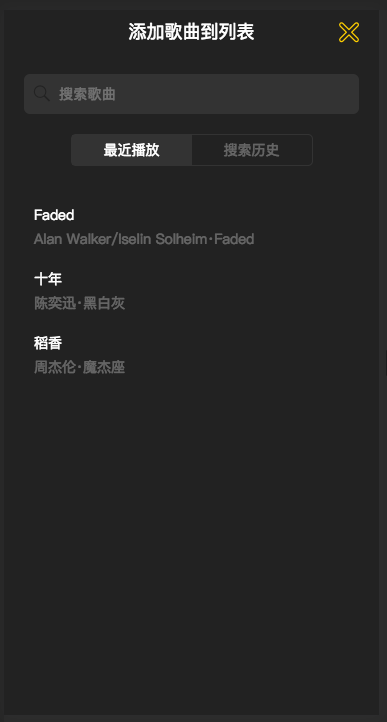
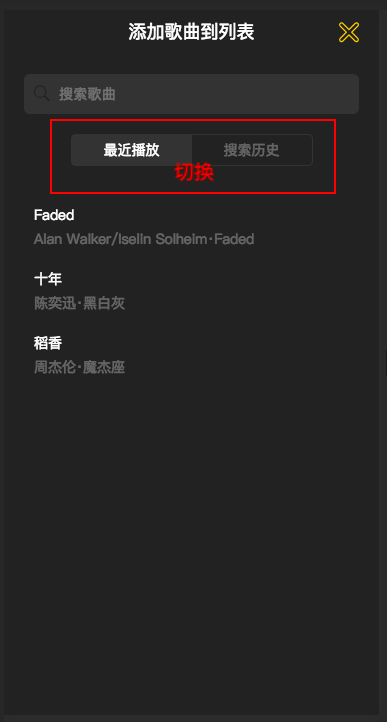
11-13, 11-14 添加歌曲到列表: 最近播放列表

Changed region(s): [[0.4341, 0.2133, 0.5581, 0.2742], [0.8372, 0.1524, 0.8682, 0.2742], [0.124, 0.1524, 0.155, 0.2742]]

diff --git a/src/common/js/cache.js b/src/common/js/cache.js
@@ -6,7 +6,7 @@ const SEARCH_KEY = '__search__'
 const SEARCH_MAX_LEN = 15
 // 播放历史记录
 const PLAY_KEY = '__play__'
-// 播放历史记录最多200条
+// 播放历史记录最多缓存200条
 const PLAY_MAX_LEN = 200
 // 收藏
 const FAVORITE_KEY = '__favorite__'
@@ -87,17 +87,18 @@ export function loadSearch () {
 
 // 缓存播放历史记录(actions.js调用)
 export function savePlay (song) {
+  // 获取播放历史记录localStorage
   let songs = storage.get(PLAY_KEY, [])
-  // 插入
+  // 当前歌曲插入到歌曲数组
   insertArray(songs, song, (item) => {
     return song.id === item.id
   }, PLAY_MAX_LEN)
-  // 缓存到本地
+  // 缓存到播放历史记录localStorage
   storage.set(PLAY_KEY, songs)
   return songs
 }
 
-// 读取播放历史记录(state.js会调用)
+// 读取播放历史记录localStorage(state.js会调用)
 export function loadPlay () {
   return storage.get(PLAY_KEY, [])
 }

diff --git a/src/store/actions.js b/src/store/actions.js
@@ -155,7 +155,7 @@ export const deleteSongList = function ({commit}) {
   commit(types.SET_PLAYING_STATE, false)
 }
 
-// player.vue: 播放历史记录
+// 保存播放历史记录
 export const savePlayHistory = function ({commit}, song) {
   commit(types.SET_PLAY_HISTORY, savePlay(song))
 }

diff --git a/src/components/player/player.vue b/src/components/player/player.vue
@@ -295,6 +295,8 @@
       ready () {
         // audio,防止极限点击操作报错
         this.songReady = true
+        // mutation
+        // 保存播放历史记录
         this.savePlayHistory(this.currentSong)
       },
       error () {

diff --git a/src/components/add-song/add-song.vue b/src/components/add-song/add-song.vue
@@ -121,6 +121,7 @@
       },
       selectSong (song, index) {
         if (index !== 0) {
+          // mutation
           // 插入歌曲到列表
           this.insertSong(new Song(song))
           this.$refs.topTip.show()

diff --git a/src/base/switches/switches.vue b/src/base/switches/switches.vue
@@ -1,4 +1,5 @@
 <template>
+  <!-- 11/切换 -->
   <ul class="switches">
     <li
       class="switch-item"

diff --git a/README.md b/README.md
@@ -509,21 +509,22 @@ cnpm install good-storage --save
 
 ## 11-10
 ### (add-song.vue)
-### mini歌曲列表：添加歌曲组件的显示和隐藏的控制
+### mini歌曲列表：'添加歌曲到列表'的显示和隐藏的控制
 
 
 ## 11-11
 ### (add-song.vue)
-### mini歌曲列表：保存搜索结果到localStorage
+### 添加歌曲到列表：保存搜索结果到localStorage
 
 
 ## 11-12
 ### (switches.vue)
-### mini歌曲列表： 切换歌曲列表组件的两个按钮
+### 添加歌曲到列表： 切换歌曲列表组件的两个按钮
 
 
 ## 11-13, 11-14
-### 歌曲列表组件,最近播放列表
+### (add-song.vue)
+### 添加歌曲到列表: 最近播放列表
 
 
 ## 11-15
